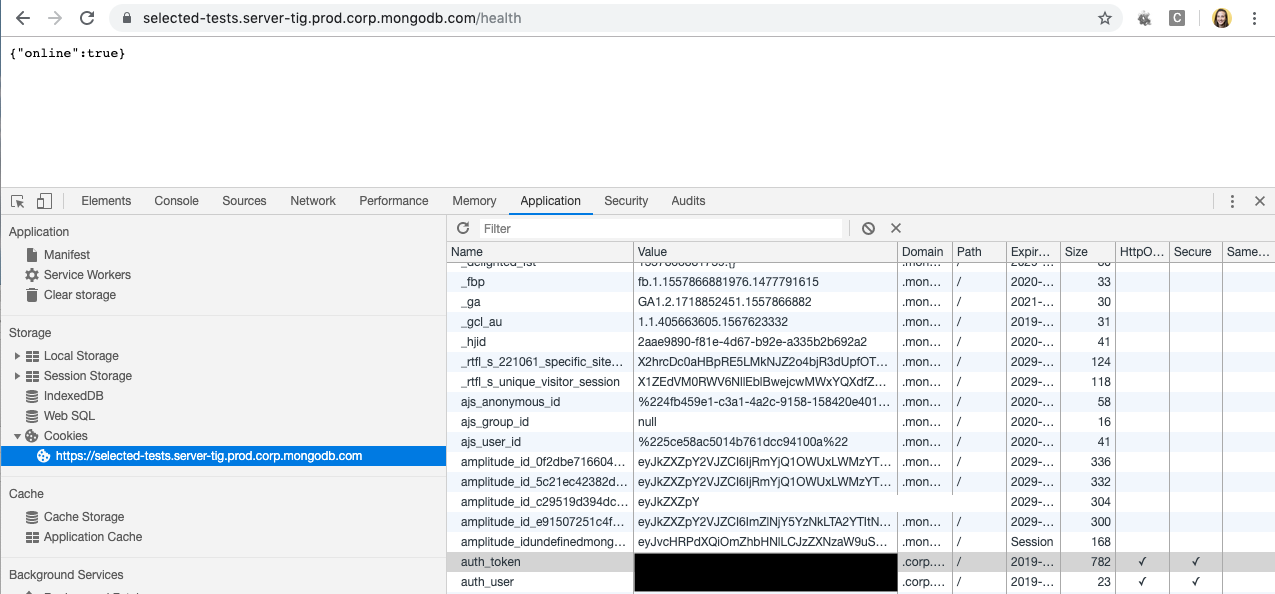
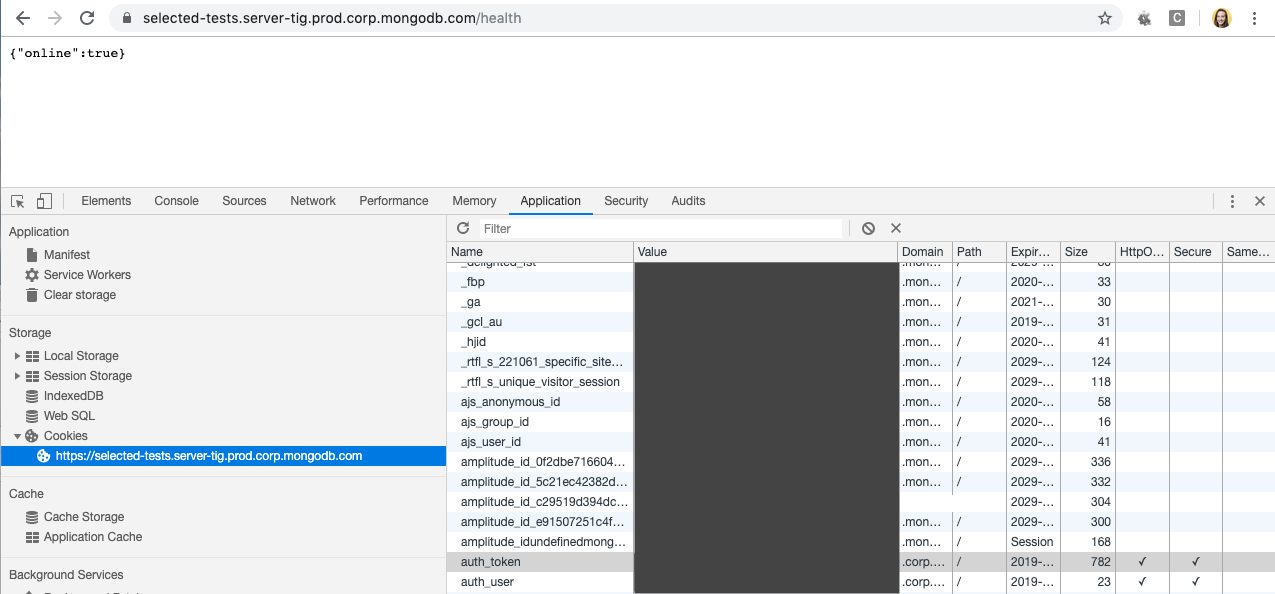
update image to master

Changed region(s): [[0.4894, 0.4242, 0.7035, 1.0]]

diff --git a/README.md b/README.md
@@ -98,11 +98,11 @@ To make an API request, follow the following steps:
 2. Get your personal auth_token and auth_user cookies for the
    https://selected-tests.server-tig.prod.corp.mongodb.com domain. (You can find
    these under the Application tab in Chrome console.)
-![Cookies example](https://github.com/mongodb/selected-tests/blob/8e02b82e80839490f4ddcc8fc850c98f5f12559f/cookies_example.png "Cookies example")
+![Cookies example](https://github.com/mongodb/selected-tests/blob/master/cookies_example.png "Cookies example")
 3. Now you can make a curl request to the API using your auth_token and auth_user
    cookies:
  ```
  curl --verbose -H "Content-Type: application/json" --cookie
- "auth_user=< your auth_user token >;auth_token=< your auth_token token >"
+ "auth_user=< your auth_user >;auth_token=< your auth_token >"
  https://selected-tests.server-tig.prod.corp.mongodb.com/health
  ```
